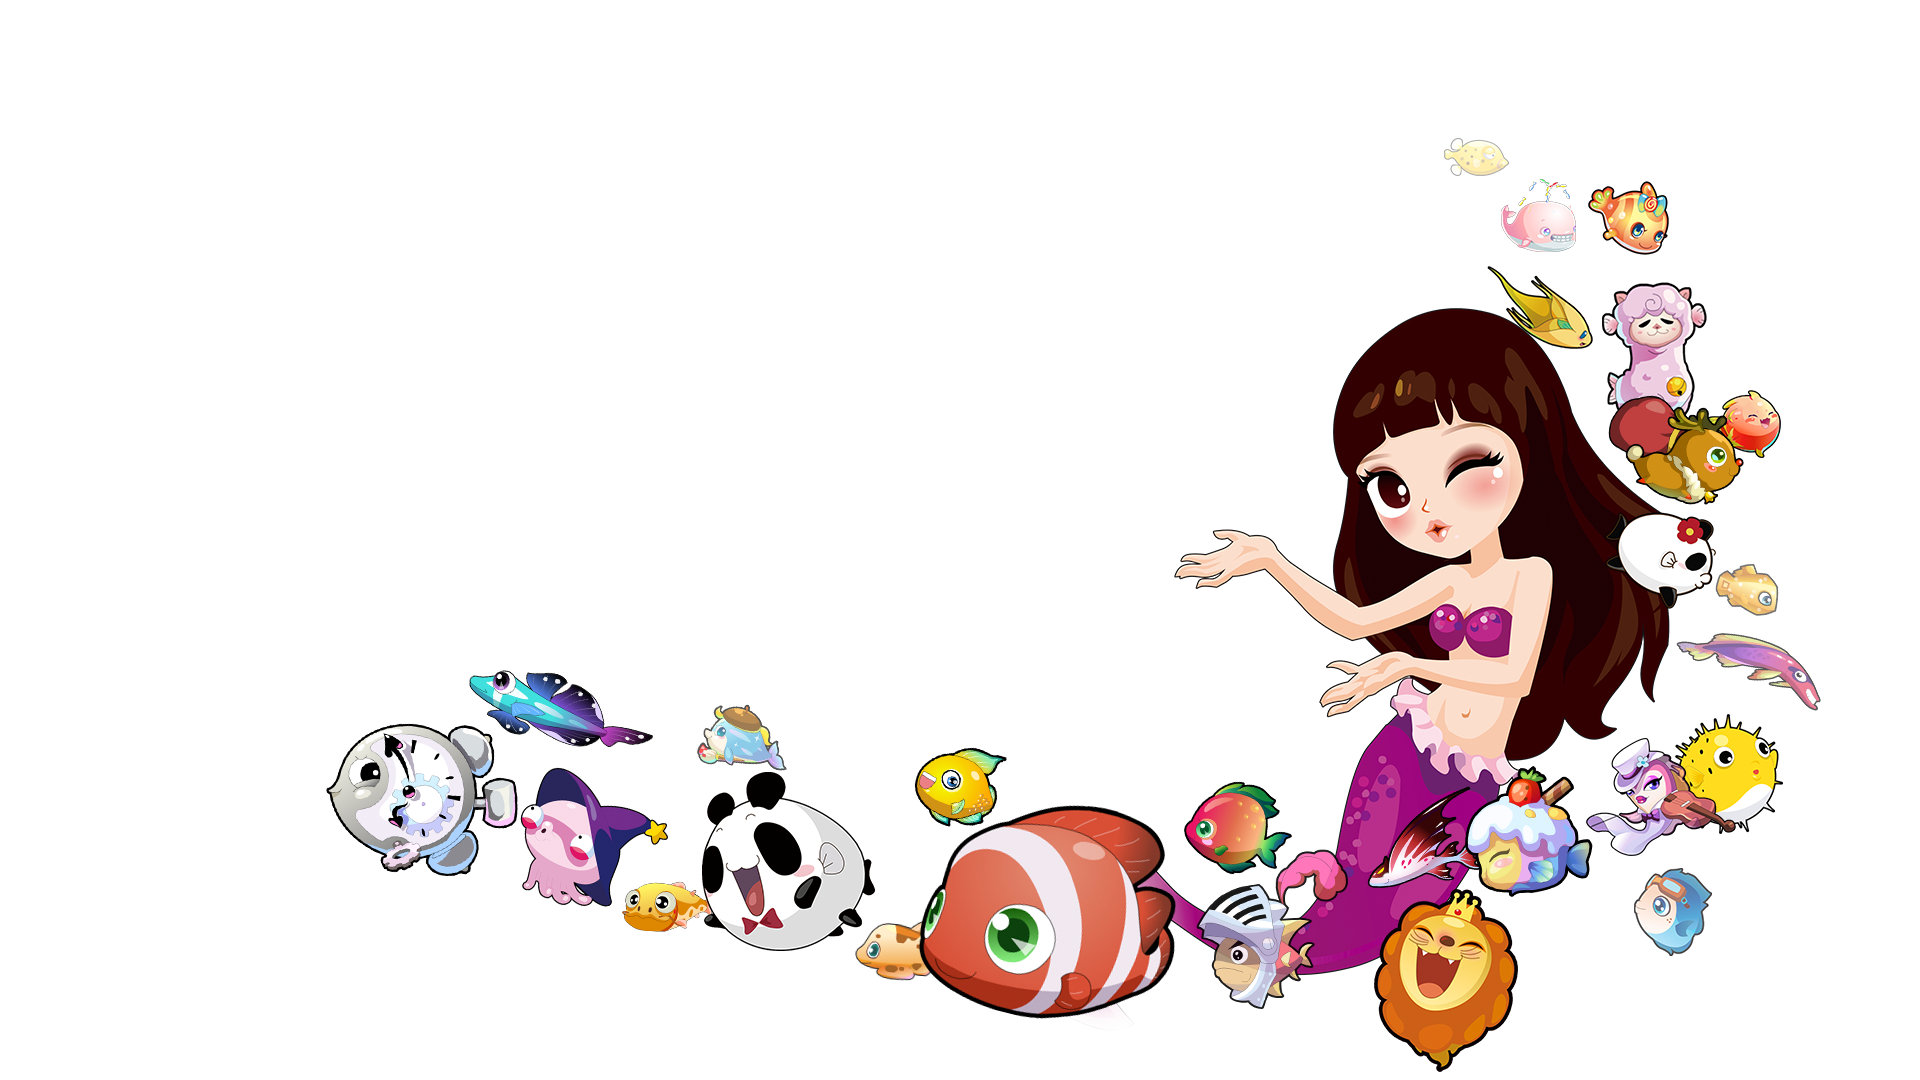
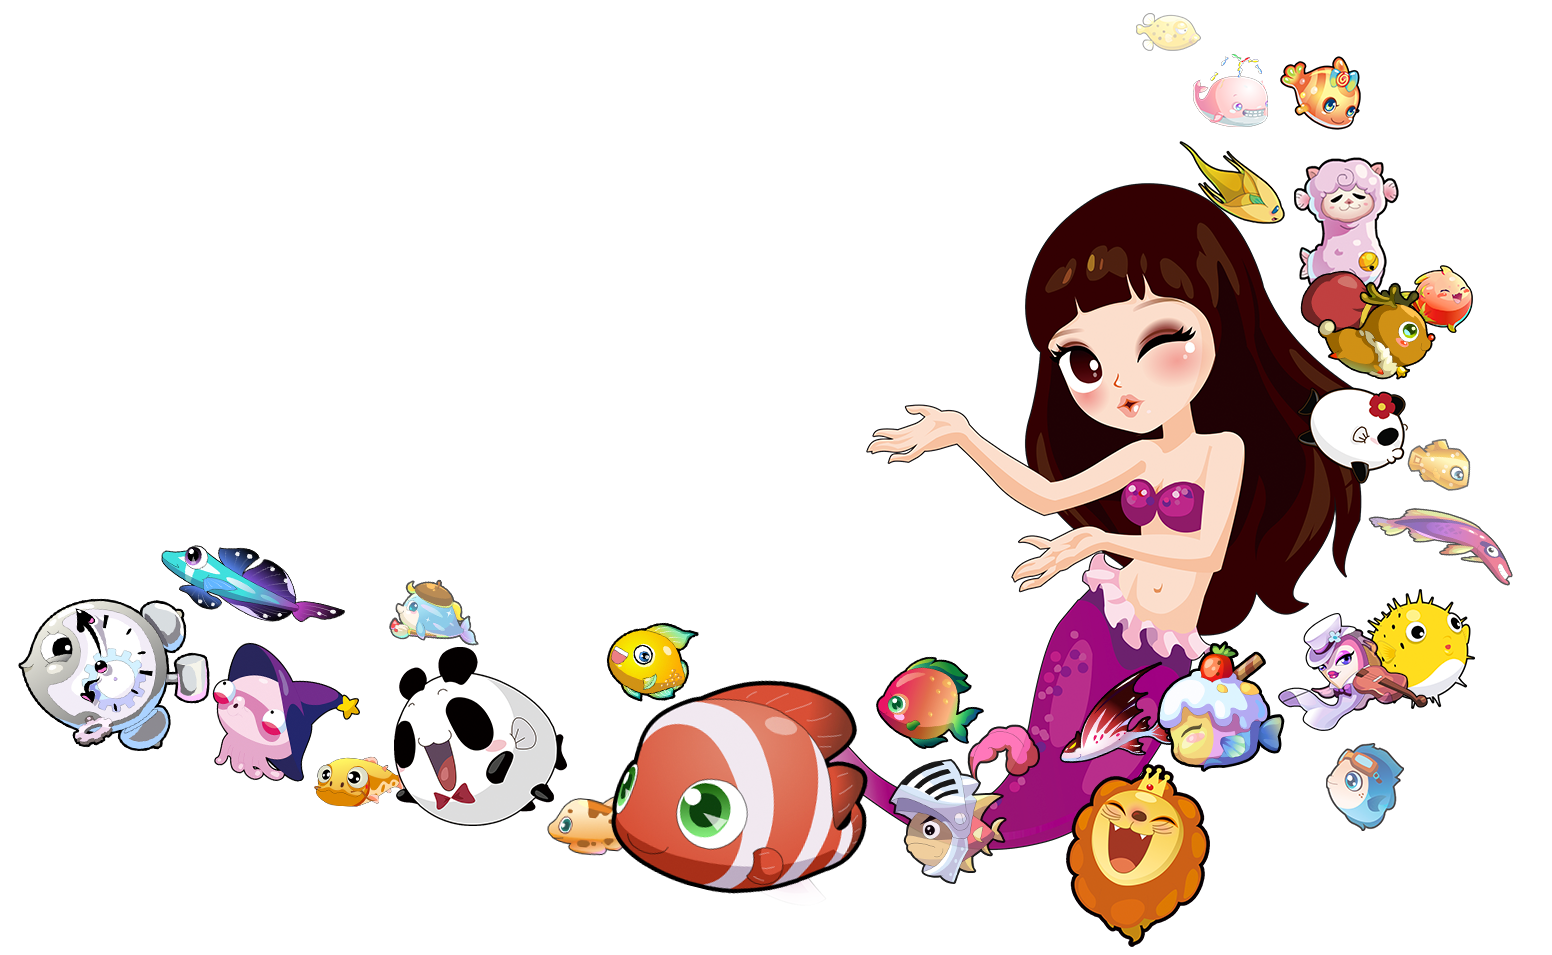
happy fish image updates

Changed region(s): [[0.0, 0.0607, 0.9897, 1.0], [0.7113, 0.0, 0.7732, 0.0607]]

diff --git a/index.html b/index.html
@@ -98,17 +98,17 @@
             <div id="hf" class="section fp-noscroll hfsection fp-auto-height-responsive">
 
                 <div class="leftcontent">
-                <h1>Interaction Design for Mobile Games</h1>
-                <p>I was the Interaction Designer of the <a href="https://www.appannie.com/apps/ios/app/469027061/rank-history/" target="_blank">year long top-grossing<a> mobile game <a href="https://itunes.apple.com/app/id469027061" target="_blank">Happy Fish</a>. Creating detailed UI specifications for all game features to create fun for players. Using wireframes, flow diagrams and story telling to help the team understand the designs and assist them with implementation. Working closely with Graphic Designers and Developers.
-                </p>
-                <p>
-                  2.3M MAU, 1.38M USD/M, Rating: 4.5 stars (1M+ ratings)
-                </p>
-                <p class="cta">
-        					<a class="btn" href="#HappyFish">Case study coming soon</a>
-        				</p>
-              </div>
-              <div class="bgimage"></div>
+                  <h1>Interaction Design for Mobile Games</h1>
+                  <p>I was the Interaction Designer of the <a href="https://www.appannie.com/apps/ios/app/469027061/rank-history/" target="_blank">year long top-grossing<a> mobile game <a href="https://itunes.apple.com/app/id469027061" target="_blank">Happy Fish</a>. Creating detailed UI specifications for all game features to create fun for players. Using wireframes, flow diagrams and story telling to help the team understand the designs and assist them with implementation. Working closely with Graphic Designers and Developers.
+                  </p>
+                  <p>
+                    2.3M MAU, 1.38M USD/M, Rating: 4.5 stars (1M+ ratings)
+                  </p>
+                  <p class="cta">
+          					<a class="btn" href="#HappyFish">Case study coming soon</a>
+          				</p>
+                </div>
+              
             </div>
 
             <div id="pt" class="section ptsection fp-auto-height-responsive">

diff --git a/css/main.css b/css/main.css
@@ -316,17 +316,30 @@ textarea {
 
    }
 
-   .hfsection .bgimage {
-     position: absolute;
-     z-index: 1000;
+   .hfsection {
+     /* position: absolute;
+     z-index: 1;
      bottom: 0;
-     right: -5%;
-     background: url(../img/happyfish2.png) right bottom no-repeat;
-     background-size: contain;
-     height: 100%;
-     width: 80%;
+     right: 0; */
+     background: url(../img/happyfish2.png) right 16px bottom 16px no-repeat;
+     background-size: 60% 60%; 
+     /* background-size: contain; */
+     /* height: 80%; */
+     /* width: 60%; */
      /*transform: translateX(50%);*/
    }
+
+   /* .hfsection .bgimage {
+     position: absolute;
+     z-index: 1;
+     bottom: 0;
+     right: 0;
+     background: url(../img/happyfish2.png) right bottom no-repeat;
+     background-size: contain;
+     height: 80%;
+     width: 60%;
+     /*transform: translateX(50%);*/
+   } */
 
    .cta a {
      font-size: .8em;
@@ -343,6 +356,7 @@ textarea {
    }
 
    .leftcontent {
+     z-index: 1000;
      width: 55%;
    }
 
